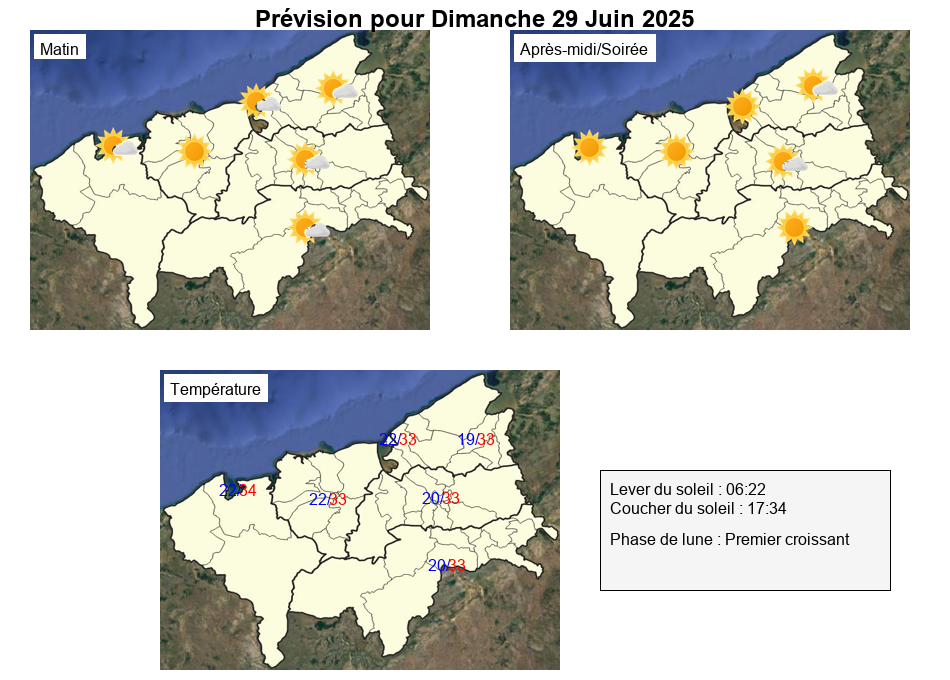
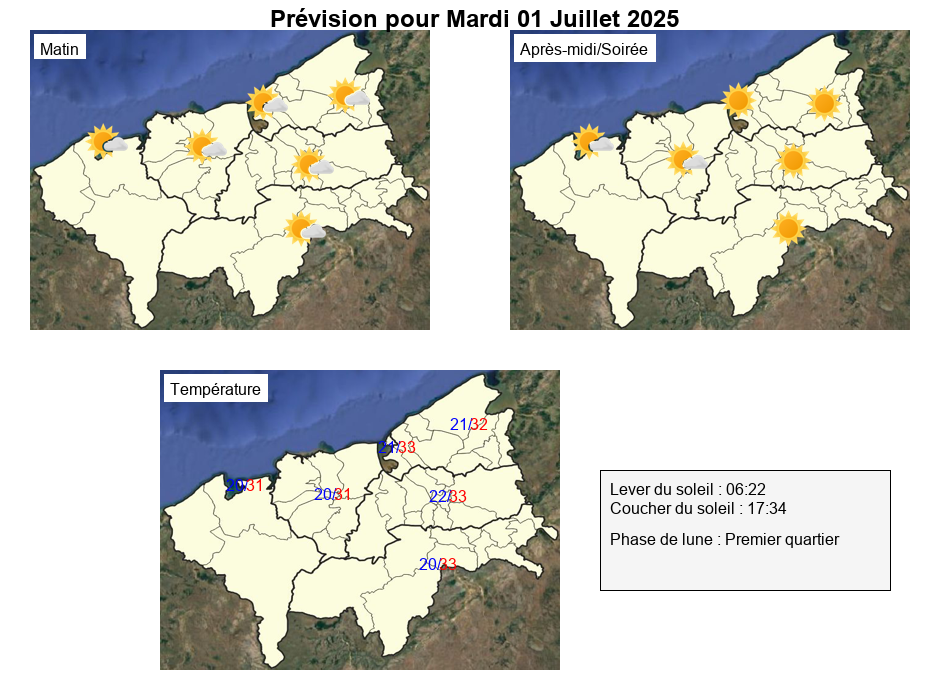
forecaston 01/07/2025

diff --git a/script.js b/script.js
@@ -3,7 +3,7 @@ const niveauAlerte = "none";       // Options: "none", "blue", "green", "yellow"
 const typeCatastrophe = "cyclone"; // Options: "cyclone", "flood", "rainflood", "forestfire", "lightning", "flood", "stormsurge", "drivingconditions"
 
 const rawMessages = [
-    `**Prévisions journalières pour la Région BOENY, établi le 29/06/2025 à 07:00 AM**
+    `**Prévisions journalières pour la Région BOENY, établi le 01/07/2025 à 07:00 AM**
 	
 	
     ✅ **Aucune vigilance ou alerte en cours pour la Région BOENY**  
@@ -11,22 +11,22 @@ const rawMessages = [
     Restez informé en cas d’évolution de la situation.`,
 
     `**Prévisions – Jour 1 (Aujourd’hui)**  
-    Temps peu nuageux le matin, devenant ensoleillé l'après-midi et peu nuageux dans quelques endroits le soir.
-    **Vents** : Vents modéré à fort du secteur SE
+    Temps peu nuageux le matin, devenant ensoleillé l'après-midi et peu nuageux à l'Est de la région le soir.
+    **Vents** : Vents modéré à fort du secteur ESE
     **Températures minimales** : entre 20 et 22 °C
-    **Températures maximales** : entre 33 et 34 °C.`,
+    **Températures maximales** : entre 31 et 33 °C.`,
 
     `**Prévisions – Jour 2 (Demain)**  
-    Temps ensoleillé toute la journée.
-    **Vents** : Vents modéré de secteur ESE
-    **Températures minimales** : entre 19 et 21 °C
-    **Températures maximales** : entre 32 et 33 °C.`
+    Temps ensoleillé toute la journée dans presque la région sauf à l'Est qui sera peu nuageux l'après-midi.
+    **Vents** : Vents modéré à fort de secteur ESE
+    **Températures minimales** : entre 18 et 20 °C
+    **Températures maximales** : entre 30 et 32 °C.`
 
     `**Prévisions – Jour 3 (Après-demain)**  
-    Temps nuageux le matin, peu nuageux l'après-midi et le soir.
-    **Vents** : Vents modéré de secteur ESE
-    **Températures minimales** : entre 19 et 21 °C
-    **Températures maximales** : entre 32 et 33 °C.`
+    Temps ensoleillé toute la journée.
+    **Vents** : Vents modéré à fort de secteur ESE
+    **Températures minimales** : entre 17 et 19 °C
+    **Températures maximales** : entre 30 et 31 °C.`
 ];
 
 // Fonction pour mettre en gras HTML et majuscule le texte entre ** ** 
